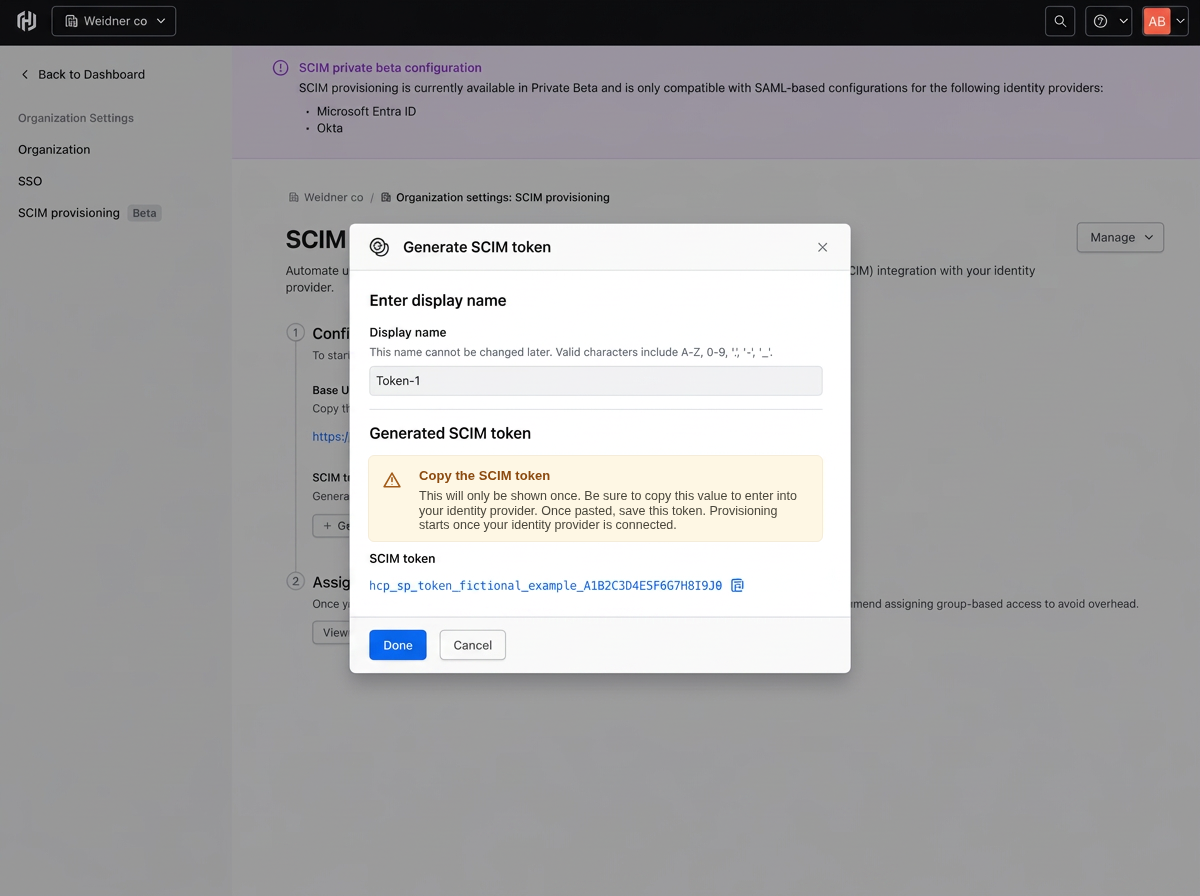
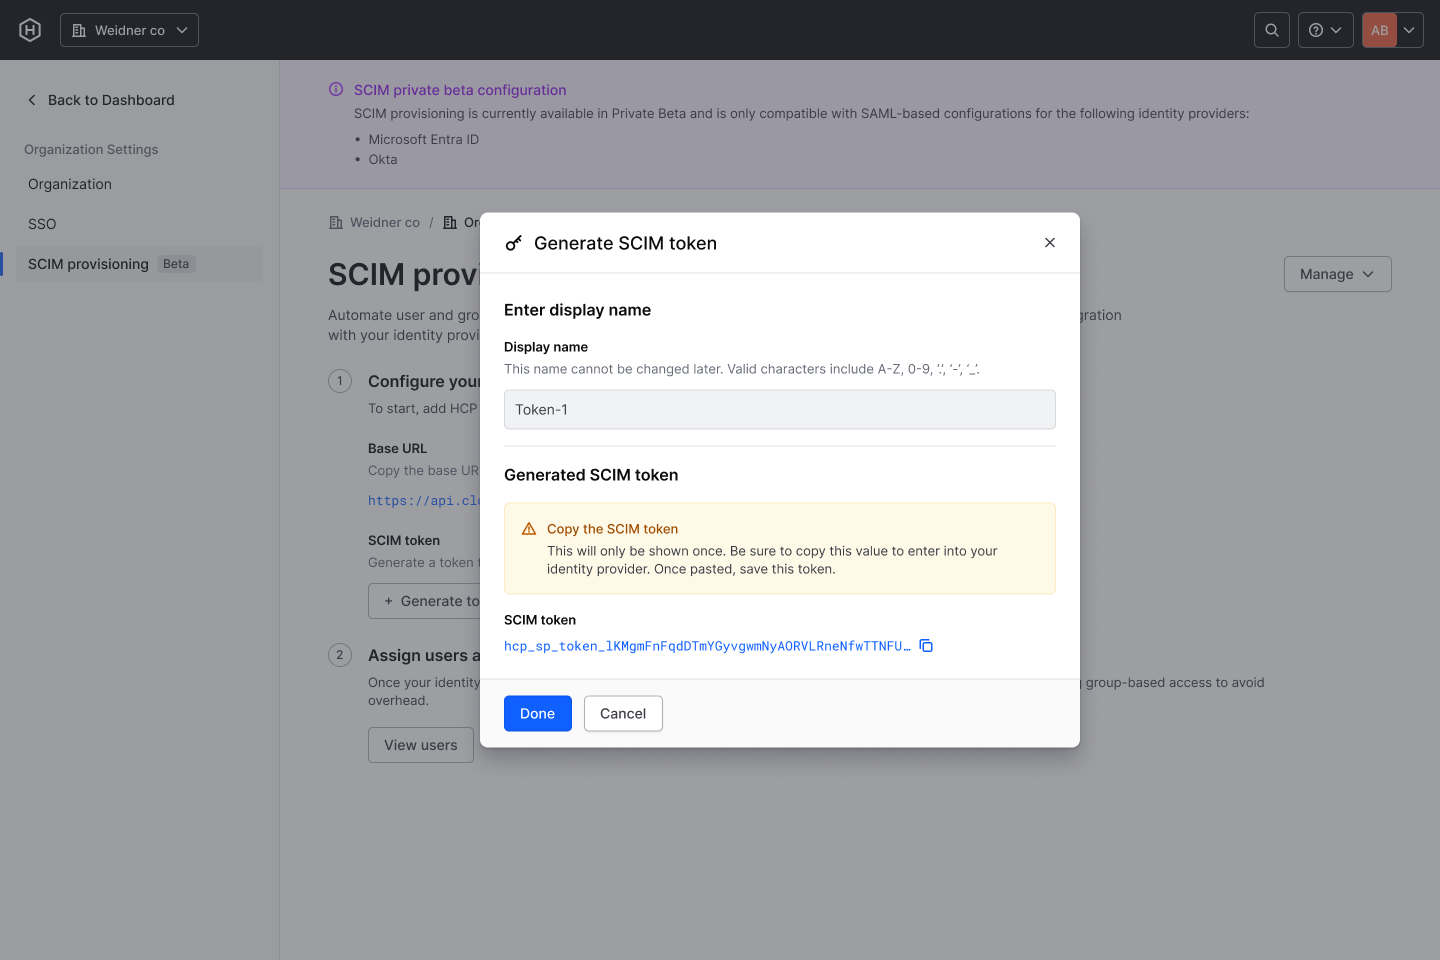
Swap in rebuilt Helios screens for the SCIM case study
Users table (hook + status), status definitions, and the generate-token dialog.

Claude-Session: https://claude.ai/code/session_01SiBywFdr5FzyC63ezhtKAx

Changed region(s): [[0.2158, 0.2188, 0.9558, 0.8125], [0.0, 0.0, 1.0, 0.2812], [0.8942, 0.25, 0.9558, 0.3125]]

diff --git a/src/lib/projects.ts b/src/lib/projects.ts
@@ -28,7 +28,7 @@ const accessHook: StoryHook = {
     { label: 'Team', value: '1 Product manager, 7 BE Engineers, 1 FE Engineer' },
     { label: 'Outcome', value: '5+ of our largest customers onboarded to our beta' },
   ],
-  image: { src: scimUsers.url, alt: 'HCP users table showing SCIM sync status for every user', caption: 'Every synced user, with a status you can trust', w: 881, h: 667 },
+  image: { src: scimUsers.url, alt: 'HCP users table showing SCIM sync status for every user', caption: 'Every synced user, with a status you can trust', w: 1440, h: 960 },
 };
 
 const accessStory: StorySection[] = [
@@ -36,9 +36,9 @@ const accessStory: StorySection[] = [
   { eyebrow: 'The problem', heading: 'Enterprise adoption was hitting a wall', body: ['We already had single sign-on (SSO), so people could log in with their company account. But every user and group still had to be created and maintained in HCP manually. For a company with thousands of employees, that is a non-starter, and a security risk when people change teams or leave.', 'Enterprise customers were telling us they needed:'], bullets: ['Automated user and group provisioning', 'Alignment with their existing SSO and security protocols', 'Confidence managing thousands of identities'], highlight: 'How might we design secure, automated identity provisioning in HCP that meets enterprise expectations and enables scalable adoption?' },
   { eyebrow: 'The people', heading: 'Who I was designing for', body: ['Two types of admins, with the same job but very different contexts:'], bullets: ['Security engineers in mature organizations with a dedicated identity owner: they care about control and auditability', 'Platform engineers or managers in leaner teams who take on provisioning alongside everything else: they care about speed and not breaking things'], },
   { eyebrow: 'Discovery', heading: 'Learning what “enterprise-ready” really meant', body: ['SCIM (System for Cross-domain Identity Management) is a standard, so admins arrive with expectations set by other tools. I studied how established products handle it, then talked directly to the customers asking for it.'], bullets: ['Competitive analysis across 3 larger companies: Okta, Azure, GitHub', 'Interviews with 4 Security and Platform Admins from our enterprise customers requesting this feature'], learnings: ['SCIM is usually configured immediately after SSO', 'Typical enterprise scale is 5k+ users, 500+ groups per org', 'Disabling SCIM must be non-destructive, as this is used for troubleshooting purposes'] },
-  { eyebrow: 'ideation - Round 1', heading: 'First, make setup quick and predictable', body: ['Because admins set up SCIM right after SSO, I put the entry point exactly there, instead of making them hunt for it in settings. Setup itself became one clear moment: copy a base URL, generate a one-time token, paste both into your identity provider.'], bullets: ['We should offer an entry point to configuring SCIM directly post configuring SSO ', 'Clear base URL + one-time token'], images: [{ src: scimSso, alt: 'HCP single sign-on details page with an Enable SCIM provisioning card', caption: 'After: SCIM offered right where SSO ends', w: 1200, h: 896 }, { src: scimToken, alt: 'Generate SCIM token dialog showing a one-time sample token', caption: 'Clear base URL + one-time token', w: 1200, h: 896 }] },
+  { eyebrow: 'ideation - Round 1', heading: 'First, make setup quick and predictable', body: ['Because admins set up SCIM right after SSO, I put the entry point exactly there, instead of making them hunt for it in settings. Setup itself became one clear moment: copy a base URL, generate a one-time token, paste both into your identity provider.'], bullets: ['We should offer an entry point to configuring SCIM directly post configuring SSO ', 'Clear base URL + one-time token'], images: [{ src: scimSso, alt: 'HCP single sign-on details page with an Enable SCIM provisioning card', caption: 'After: SCIM offered right where SSO ends', w: 1200, h: 896 }, { src: scimToken, alt: 'Generate SCIM token dialog showing a one-time sample token', caption: 'Clear base URL + one-time token', w: 1440, h: 960 }] },
   { eyebrow: 'The twist', heading: 'Setup was solved, trust wasn’t', body: ['Round 1 got admins through setup, but feedback exposed a bigger gap: once SCIM was on, they had no way to see what the system was doing. With 5,000 users and 500 groups syncing, “did it work?” is the question that matters most.', 'Admins didn’t just need to enable SCIM efficiently; they needed to trust that our system would handle it properly.'], highlight: 'After rounds of internal feedback with PMs, engineers and other designers, we concluded our next phase should focus on scalability post SCIM configuration.' },
-  { eyebrow: 'Ideation - Round 2', heading: 'Designing for trust after enablement', body: ['I made provisioning status visible everywhere admins already look, on every user and group, with a defined set of states so nothing is ambiguous. And because customers turn SCIM off to troubleshoot, disabling it had to be safe and explain exactly what would happen before anyone clicked.'], concepts: [{ title: 'Clear system status + sync visibility for users and groups', images: [{ src: scimUsersStatus.url, alt: 'HCP users table showing SCIM provisioning status and a status tooltip', caption: 'Making provisioning status visible', w: 881, h: 671 }, { src: scimStatusReference.url, alt: 'SCIM provisioning column reference with user and group status definitions', caption: 'User and group provisioning states', w: 297, h: 671 }] }, { title: 'Disabling SCIM is safe and explains exactly what happens', images: [{ src: scimDisableInitial.url, alt: 'Initial disable SCIM confirmation design', caption: 'Before: an early disable confirmation', w: 870, h: 660 }, { src: scimDisable.url, alt: 'Disable SCIM provisioning confirmation dialog explaining what will happen', caption: 'Safe, well-explained disablement behavior', w: 881, h: 671, note: 'After: disabling is non-destructive and says exactly what happens to your users, so admins can troubleshoot without fear.' }] }] },
+  { eyebrow: 'Ideation - Round 2', heading: 'Designing for trust after enablement', body: ['I made provisioning status visible everywhere admins already look, on every user and group, with a defined set of states so nothing is ambiguous. And because customers turn SCIM off to troubleshoot, disabling it had to be safe and explain exactly what would happen before anyone clicked.'], concepts: [{ title: 'Clear system status + sync visibility for users and groups', images: [{ src: scimUsersStatus.url, alt: 'HCP users table showing SCIM provisioning status and a status tooltip', caption: 'Making provisioning status visible', w: 1440, h: 960 }, { src: scimStatusReference.url, alt: 'SCIM provisioning column reference with user and group status definitions', caption: 'User and group provisioning states', w: 387, h: 960 }] }, { title: 'Disabling SCIM is safe and explains exactly what happens', images: [{ src: scimDisableInitial.url, alt: 'Initial disable SCIM confirmation design', caption: 'Before: an early disable confirmation', w: 870, h: 660 }, { src: scimDisable.url, alt: 'Disable SCIM provisioning confirmation dialog explaining what will happen', caption: 'Safe, well-explained disablement behavior', w: 881, h: 671, note: 'After: disabling is non-destructive and says exactly what happens to your users, so admins can troubleshoot without fear.' }] }] },
   { eyebrow: 'Beyond the UI', heading: 'This wasn’t just about a functioning UI…', body: ['For a feature this technical, trust also comes from knowing what to expect. Customers needed clear documentation on the results and impact of enabling SCIM to have a seamless beta onboarding.', 'Alongside my product manager, I led the work with our education team to create a thorough SCIM Provisioning User Guide.'], images: [{ src: scimGuide.url, alt: 'SCIM Provisioning User Guide document', caption: 'The SCIM Provisioning User Guide', w: 1295, h: 833 }] },
   { eyebrow: 'Impact', heading: 'What it meant for our customers', body: ['SCIM turned identity from a blocker into something enterprise admins could set up once and rely on.'], bullets: ['Removed a key enterprise adoption blocker', 'Enabled 5+ of our largest customers to onboard to the beta', 'Unlocked millions in retained and expanded revenue'] },
   { eyebrow: 'Reflection', heading: 'What I’m taking with me', bullets: ['Trust matters more than anything in a system at scale', 'This is highly technical: your engineers are your friends! Talk to them early and often', 'Your typical dev team is evolving! Be willing to jump in when needed'] },
